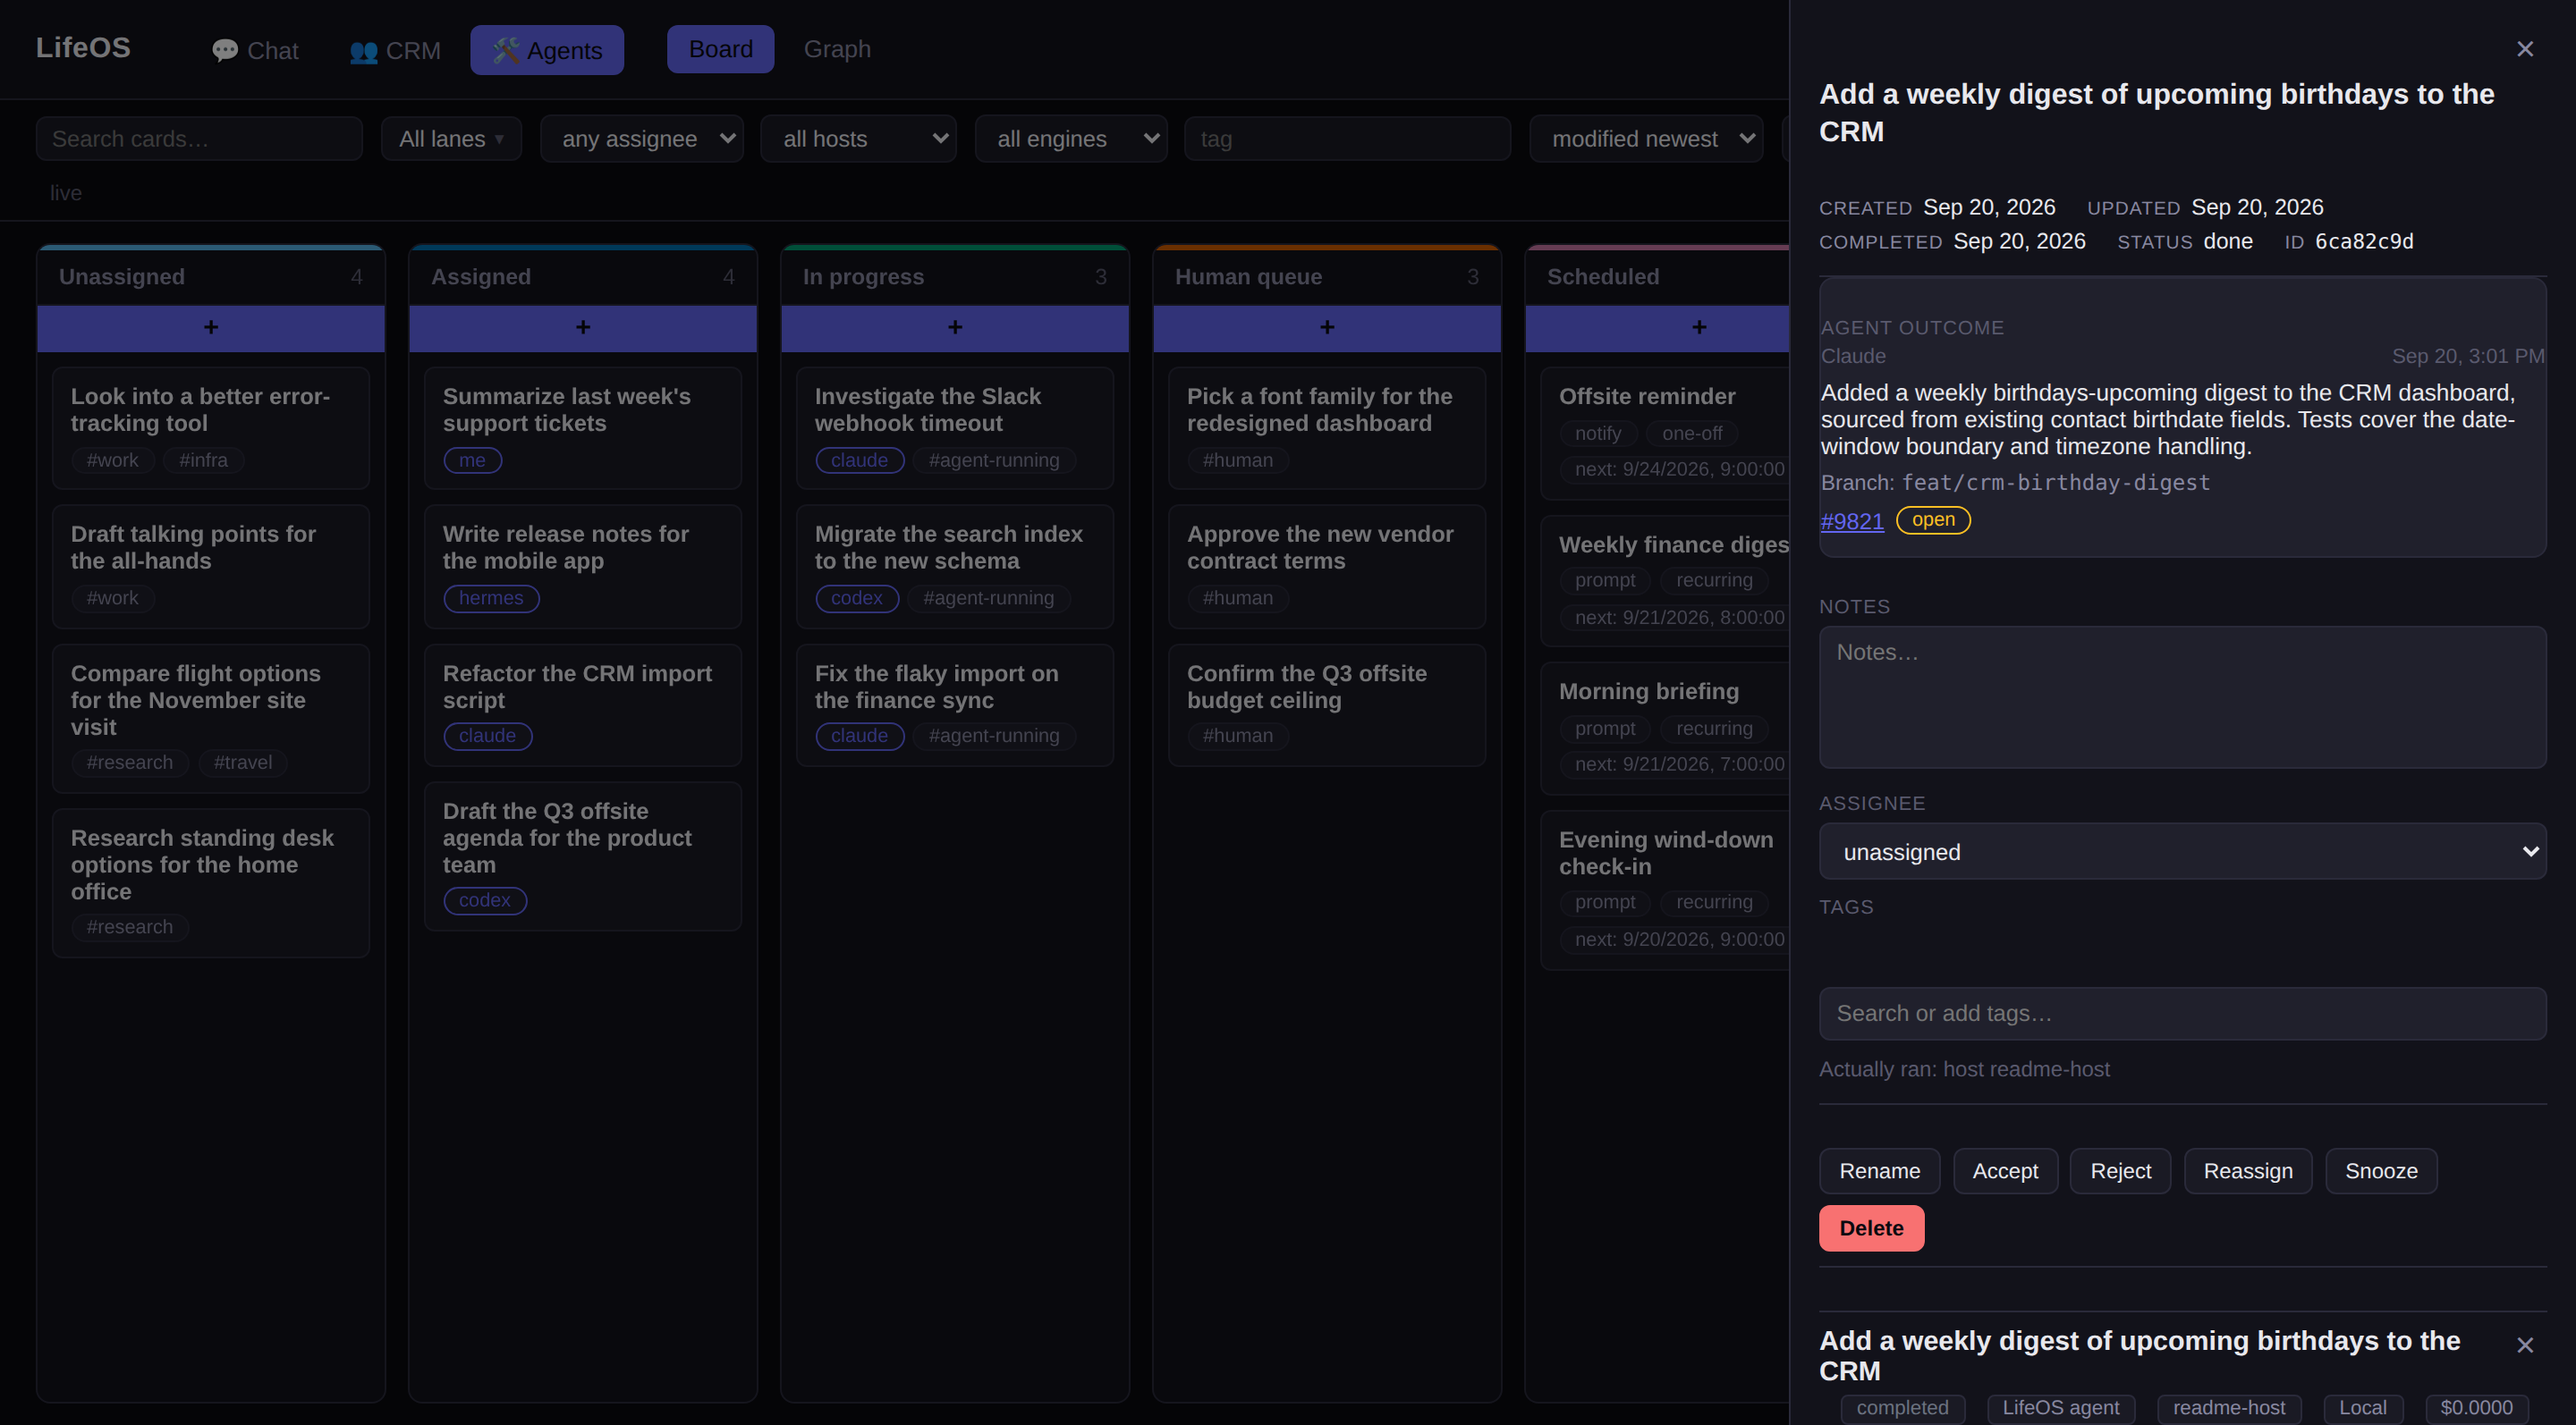
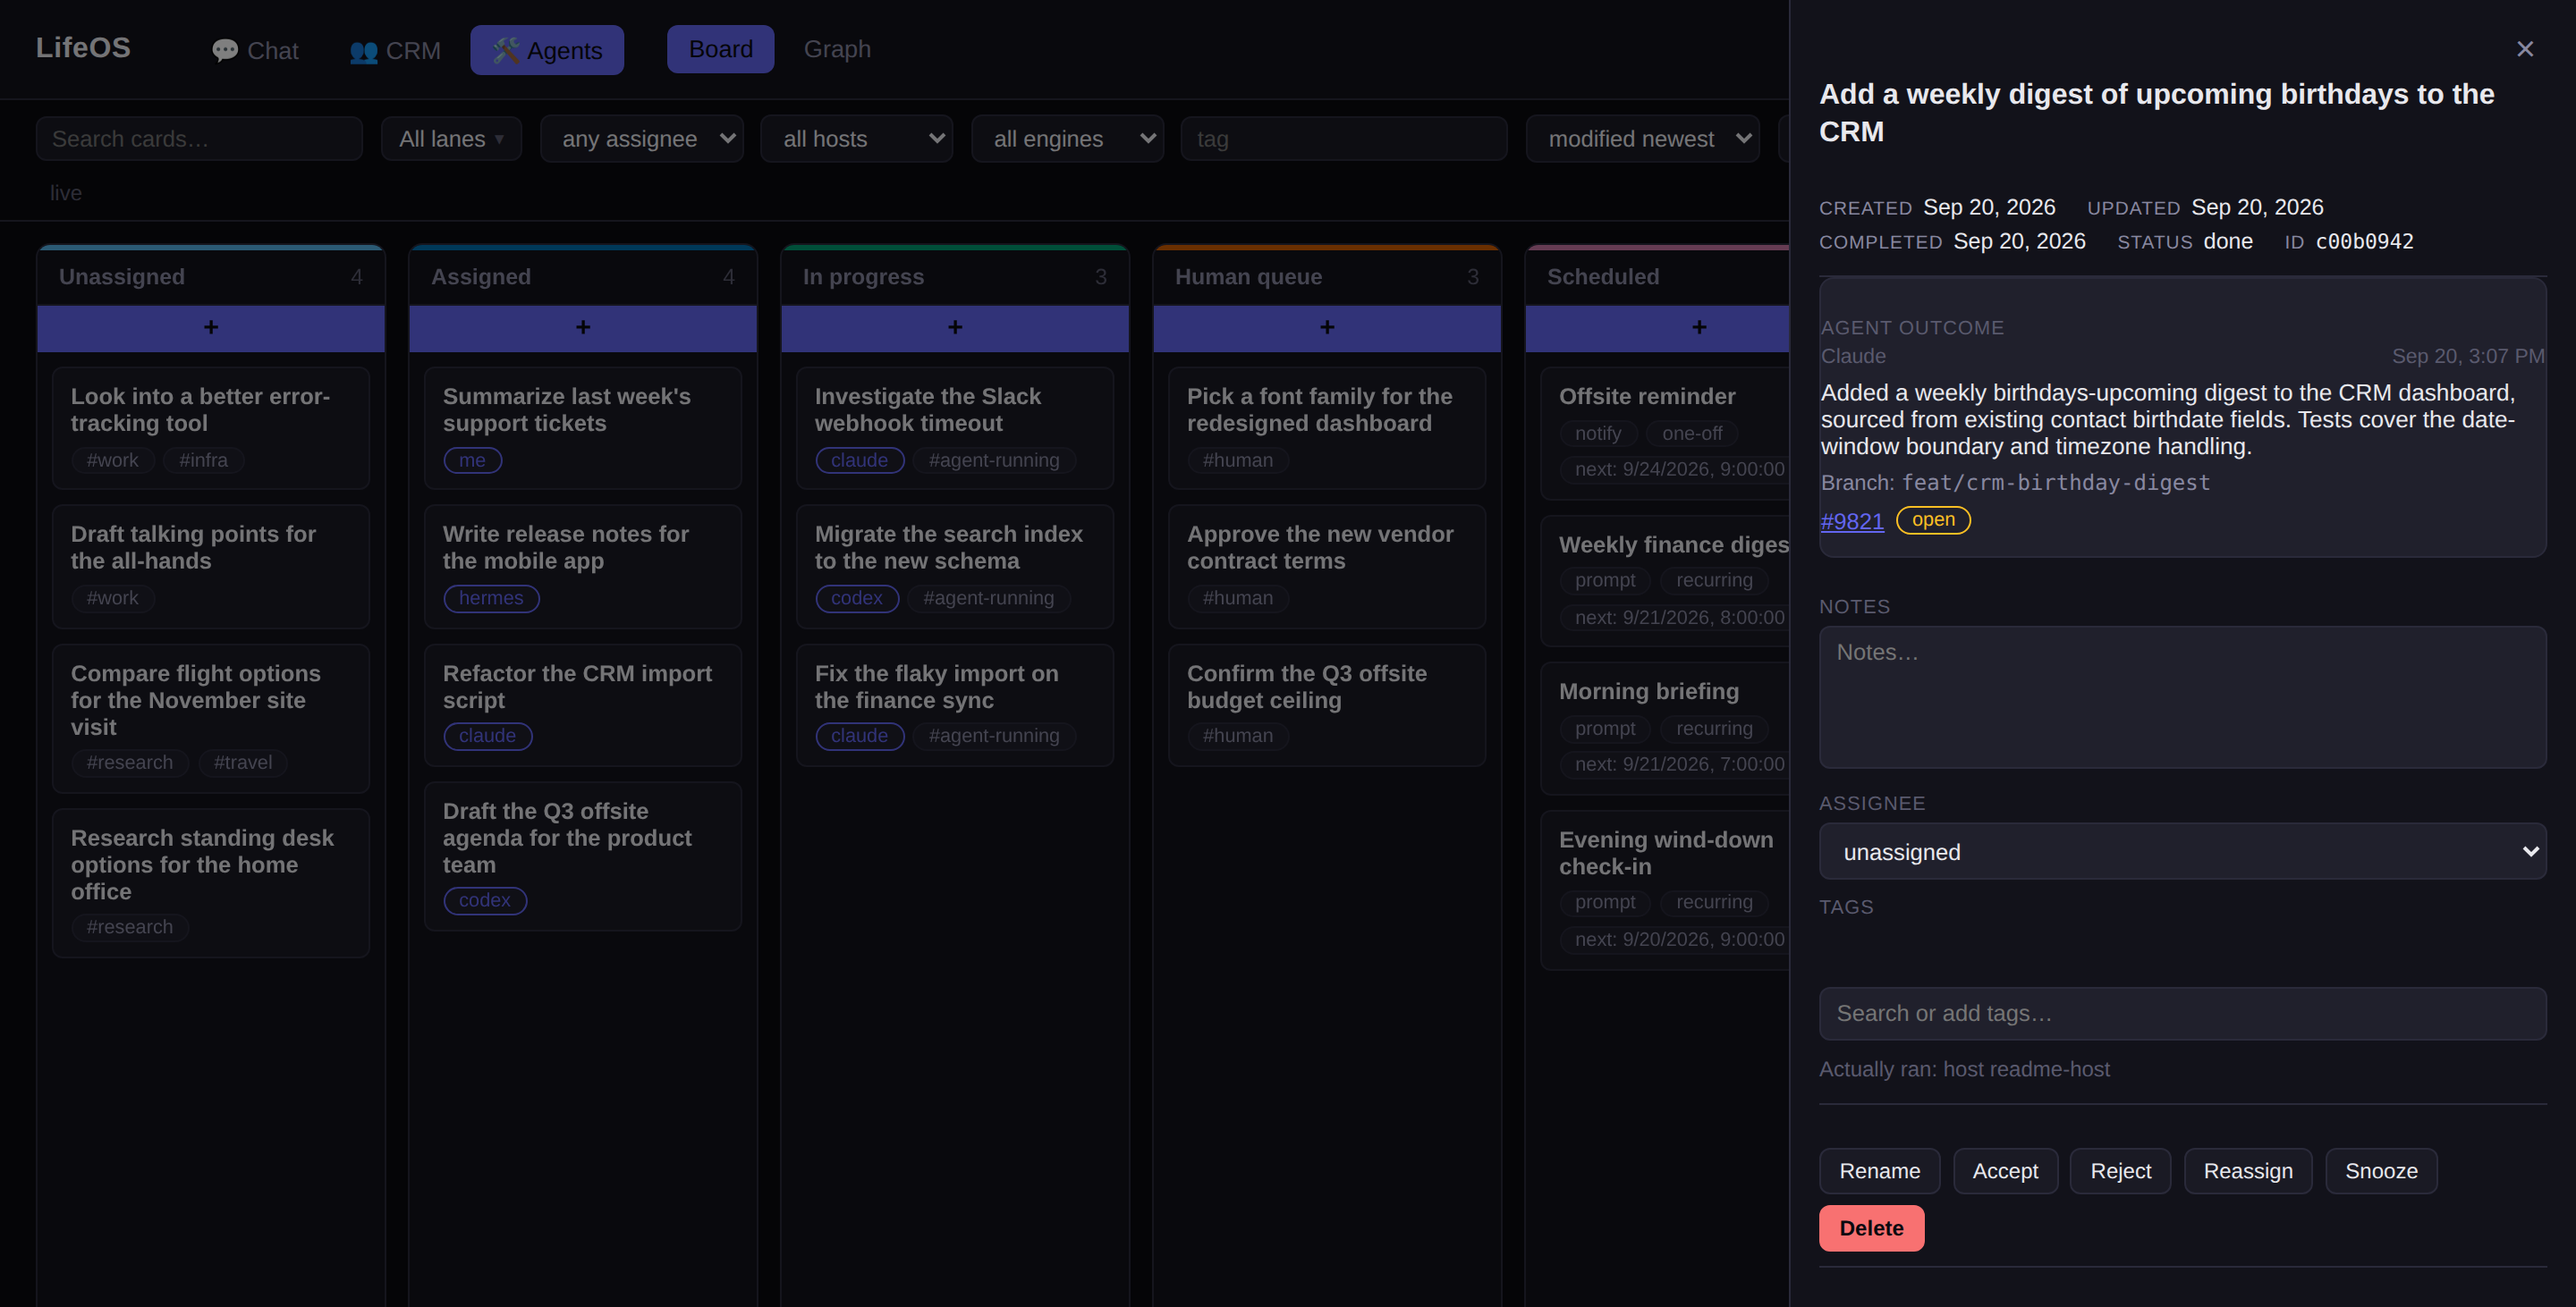
docs: fix README screenshot framing (board crop, chat truncation, drawer)
Final framing pass per coordinator review:
- agents-board.png now crops to just below the tallest lane's last card
  instead of the full stretched-height column, and adds
  agents-board-detail.png (Human queue / Scheduled / Review at full zoom)
  since the 8-lane overview is necessarily small text once scaled to
  README width.
- chat-thread.png and tasks-chat.png force an instant (non-smooth) scroll
  of the message list to its true bottom before measuring/cropping —
  addMessage()'s own scrollToBottom() animates, and a fixed wait could
  outrace it, leaving the last message cut off mid-sentence at the
  viewport edge.
- agents-card.png now ends right after the drawer's action buttons instead
  of including a partially-cut linked-session panel below them.

Claude-Session: https://claude.ai/code/session_01W8FaSgWLaoyg36bYGEKYZK

diff --git a/scripts/generate_readme_screenshots.py b/scripts/generate_readme_screenshots.py
@@ -67,7 +67,7 @@ VAULT_PATH = Path(os.environ["LIFEOS_VAULT_PATH"])
 # window, so the chat/board captures below crop dead space rather than
 # leaving a big blank middle.
 DESKTOP_VIEWPORT = {"width": 1440, "height": 900}
-CHAT_VIEWPORT = {"width": 1440, "height": 760}
+CHAT_VIEWPORT = {"width": 1440, "height": 820}
 BOARD_VIEWPORT = {"width": 2200, "height": 960}
 
 REAL_HOSTNAME = socket.gethostname().split(".")[0]
@@ -477,6 +477,39 @@ def crop_to_content(page, path: Path, *, bottom_locator=None, exclude_locator=No
     crop_and_save(page, path, clip={"x": 0, "y": 0, "width": width, "height": max(height, 100)})
 
 
+def scroll_messages_to_bottom(page) -> None:
+    """Instant (non-smooth) scroll of the message list to its true bottom.
+    addMessage()'s own scrollToBottom() uses `behavior: 'smooth'`, an
+    animated scroll that a fixed short wait_for_timeout can outrace —
+    leaving the last message only partially scrolled into view and cut off
+    by the viewport edge in a clip-based screenshot (no full_page capture
+    can recover it either: #messages is an internally-scrolling region,
+    not page-level overflow, so full_page renders the same viewport-only
+    content). Setting scrollTop directly bypasses the animation entirely.
+    """
+    page.evaluate(
+        "() => { const el = document.getElementById('messages'); "
+        "if (el) el.scrollTop = el.scrollHeight; }"
+    )
+
+
+def _lanes_content_bottom(page, lanes_locator) -> float:
+    """Max bottom-edge y (viewport coords) of any card across the given set
+    of `.board-lane` locators — used to crop a board screenshot to just
+    below the tallest column's actual cards, not the full stretched lane
+    height (`.board-lane` fills the row via flex `align-items: stretch`
+    regardless of card count)."""
+    max_bottom = 0.0
+    for i in range(lanes_locator.count()):
+        cards = lanes_locator.nth(i).locator(".board-card")
+        if cards.count() == 0:
+            continue
+        box = cards.last.bounding_box()
+        if box:
+            max_bottom = max(max_bottom, box["y"] + box["height"])
+    return max_bottom
+
+
 def open_conversation_and_expand_sources(page, title: str) -> None:
     page.click(f"text={title}")
     page.wait_for_selector(".message.assistant")
@@ -485,6 +518,8 @@ def open_conversation_and_expand_sources(page, title: str) -> None:
     if toggles.count() > 0:
         toggles.first.click()
         page.wait_for_timeout(200)
+    scroll_messages_to_bottom(page)
+    page.wait_for_timeout(150)
 
 
 def capture(playwright) -> list[str]:
@@ -530,6 +565,8 @@ def capture(playwright) -> list[str]:
     tasks_chat_page.click("text=Task and reminder setup")
     tasks_chat_page.wait_for_selector(".message.assistant")
     tasks_chat_page.wait_for_timeout(300)
+    scroll_messages_to_bottom(tasks_chat_page)
+    tasks_chat_page.wait_for_timeout(150)
     crop_to_content(
         tasks_chat_page, IMAGES_DIR / "tasks-chat.png",
         bottom_locator=tasks_chat_page.locator(".message").last,
@@ -567,6 +604,7 @@ def capture(playwright) -> list[str]:
             timeout=15000,
         )
         voice_page.wait_for_timeout(200)
+    scroll_messages_to_bottom(voice_page)
     voice_page.wait_for_timeout(300)
     crop_to_content(voice_page, IMAGES_DIR / "chat-voice.png", bottom_locator=voice_page.locator("#voiceDock"))
     produced.append("chat-voice.png")
@@ -586,11 +624,43 @@ def capture(playwright) -> list[str]:
     board_page.mouse.click(100, 700)
     board_page.wait_for_timeout(500)
     redact_hostname_in_dom(board_page)
-    crop_to_content(
-        board_page, IMAGES_DIR / "agents-board.png",
-        exclude_locator=board_page.locator("#board-drop-tray"),
-    )
+    all_lanes = board_page.locator(".board-lane")
+    board_box = all_lanes.first.bounding_box()
+    content_bottom = _lanes_content_bottom(board_page, all_lanes)
+    if board_box and content_bottom:
+        # Ends shortly below the longest column's last card — at 8 lanes
+        # wide, this is necessarily a wide/short overview image; the
+        # detail crop below covers legible close-up reading.
+        crop_and_save(board_page, IMAGES_DIR / "agents-board.png", clip={
+            "x": 0, "y": max(board_box["y"] - 10, 0),
+            "width": BOARD_VIEWPORT["width"],
+            "height": (content_bottom + 24) - max(board_box["y"] - 10, 0),
+        })
+    else:
+        crop_to_content(
+            board_page, IMAGES_DIR / "agents-board.png",
+            exclude_locator=board_page.locator("#board-drop-tray"),
+        )
     produced.append("agents-board.png")
+
+    # --- agents-board-detail.png (Human queue / Scheduled / Review, at a
+    # legible zoom — the full 8-lane board above is necessarily small text
+    # once scaled to README width) ------------------------------------------
+    detail_lanes = board_page.locator(
+        '.board-lane[data-lane="human_queue"], '
+        '.board-lane[data-lane="scheduled"], '
+        '.board-lane[data-lane="review"]'
+    )
+    first_box = board_page.locator('.board-lane[data-lane="human_queue"]').bounding_box()
+    last_box = board_page.locator('.board-lane[data-lane="review"]').bounding_box()
+    detail_bottom = _lanes_content_bottom(board_page, detail_lanes)
+    if first_box and last_box and detail_bottom:
+        crop_and_save(board_page, IMAGES_DIR / "agents-board-detail.png", clip={
+            "x": max(first_box["x"] - 10, 0), "y": max(first_box["y"] - 10, 0),
+            "width": (last_box["x"] + last_box["width"]) - first_box["x"] + 20,
+            "height": (detail_bottom + 24) - max(first_box["y"] - 10, 0),
+        })
+        produced.append("agents-board-detail.png")
 
     # --- agents-schedules.png (the Scheduled lane column) ------------------
     # The Scheduled lane is a column on the same board, not a separate tab.
@@ -623,10 +693,12 @@ def capture(playwright) -> list[str]:
     card_page.wait_for_selector("#board-drawer-backdrop:not([hidden])", timeout=5000)
     card_page.wait_for_timeout(300)
     redact_hostname_in_dom(card_page)
-    crop_to_content(
-        card_page, IMAGES_DIR / "agents-card.png",
-        exclude_locator=card_page.locator("#board-drop-tray"),
-    )
+    # End right after the drawer's action buttons (Rename/Accept/.../Delete)
+    # — below that sits a second panel (the linked session's transcript
+    # summary), which is real UI but reads as a stray half-cut repeat of the
+    # card title when it's only partially in frame.
+    delete_btn = card_page.locator("#board-drawer button", has_text="Delete")
+    crop_to_content(card_page, IMAGES_DIR / "agents-card.png", bottom_locator=delete_btn)
     produced.append("agents-card.png")
     card_page.close()
 
